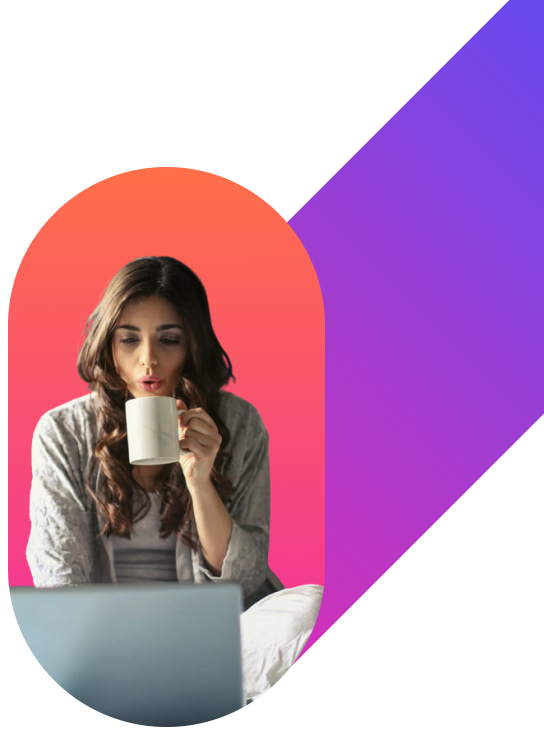
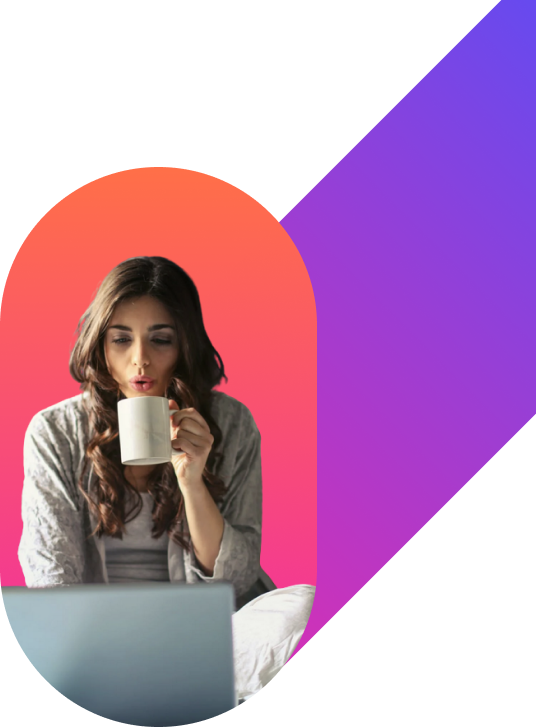
responsivity done

diff --git a/src/sections/Courses/index.jsx b/src/sections/Courses/index.jsx
@@ -1,6 +1,10 @@
-import { FaRunning } from "react-icons/fa";
 import { Course } from "../../components/Course";
 import { Container } from "./styles";
+import Animation from '../../assets/icon-animation.svg'
+import Design from '../../assets/icon-design.svg'
+import Photography from '../../assets/icon-photography.svg'
+import CryptoI from '../../assets/icon-crypto.svg'
+import Business from '../../assets/icon-business.svg'
 
 export const Courses = () => {
   return (
@@ -10,35 +14,31 @@ export const Courses = () => {
           <p>Check out our most popular courses!</p>
         </div>
         <Course
-          icon={<FaRunning />}
+          icon={Animation}
           title="Animation"
-          description="Learn the latest animation techniques to create stunning motion design
-        and captivate your audience."
+          description="Learn the latest animation techniques to create stunning motion design and captivate your audience."
         />
         <Course
-          icon={<FaRunning />}
-          title="Animation"
-          description="Learn the latest animation techniques to create stunning motion design
-        and captivate your audience."
+          icon={Design}
+          title="Design"
+          description="Create beautiful, usable interfaces to help shape the future of how the web looks."
         />
         <Course
-          icon={<FaRunning />}
-          title="Animation"
-          description="Learn the latest animation techniques to create stunning motion design
-        and captivate your audience."
+          icon={Photography}
+          title="Photography"
+          description="Explore critical fundamentals like lighting, composition, and focus to capture exceptional photos."
         />
         <Course
-          icon={<FaRunning />}
-          title="Animation"
-          description="Learn the latest animation techniques to create stunning motion design
-        and captivate your audience."
+          icon={CryptoI}
+          title="Crypto"
+          description="All you need to know to get started investing in crypto. Go from beginner to advanced with this 54 hour course."
         />
         <Course
-          icon={<FaRunning />}
-          title="Animation"
-          description="Learn the latest animation techniques to create stunning motion design
-        and captivate your audience."
+          icon={Business}
+          title="Business"
+          description="A step-by-step playbook to help you start, scale, and sustain your business without outside investment."
         />
+
       </div>
     </Container>
   );

diff --git a/src/sections/Home/index.jsx b/src/sections/Home/index.jsx
@@ -2,8 +2,21 @@ import { theme } from "../../theme";
 import { Container, HeroText } from "./styles";
 import { Button } from "../../components/Button";
 import HeroImageDesktop from "../../assets/hero-image-desktop.png";
+import HeroImageTablet from "../../assets/hero-image-tablet.png";
+import HeroImageMobile from "../../assets/hero-image-mobile.png";
+import { useEffect, useState } from "react";
 
 export const Home = () => {
+  const [width, setWidth] = useState(window.innerWidth);
+
+  useEffect(() => {
+    const handleResize = () => setWidth(window.innerWidth);
+    window.addEventListener("resize", handleResize);
+    return () => {
+      window.removeEventListener("resize", handleResize);
+    };
+  }, []);
+
   return (
     <Container>
       <HeroText>
@@ -19,7 +32,9 @@ export const Home = () => {
         </Button>
       </HeroText>
 
-      <img src={HeroImageDesktop} />
+        {width > 1120 && <img src={HeroImageDesktop} />}
+        {width > 768 && width <= 1120 && <img src={HeroImageTablet} />}
+        {width <= 768 && <img src={HeroImageMobile} />}
     </Container>
   );
 };

diff --git a/src/theme/index.js b/src/theme/index.js
@@ -13,30 +13,30 @@ export const theme = {
     fonts: {
       heading: {
         xl: {
-          size: "56px",
-          line_height: "70px",
+          size: "3.5rem",
+          line_height: "4.75rem",
         },
         l: {
-          size: "40px",
-          line_height: "51px",
+          size: "2.5rem",
+          line_height: "3.1rem",
         },
         m: {
-          size: "32px",
-          line_height: "40px",
+          size: "2rem",
+          line_height: "2.5rem",
         },
         s: {
-          size: "24px",
-          line_height: "28px",
+          size: "1.5rem",
+          line_height: "1.75rem",
         },
       },
       body: {
         m: {
-          size: "18px",
-          line_height: "28px",
+          size: "1.1rem",
+          line_height: "1.75rem",
         },
         s: {
-          size: "16px",
-          line_height: "28px",
+          size: "1rem",
+          line_height: "75rem",
         },
       },
     },

diff --git a/src/components/Course/styles.js b/src/components/Course/styles.js
@@ -2,7 +2,6 @@ import styled from "styled-components";
 import { theme } from "../../theme";
 
 export const Container = styled.div`
-  width: 350px;
   height: 350px;
 
   padding: 4rem 2rem 2.5rem 2rem;
@@ -13,6 +12,10 @@ export const Container = styled.div`
   position: relative;
 
   box-shadow: 0px 25px 50px rgba(6, 22, 141, 0.0442381);
+
+  @media (max-width: 992px) {
+    height: initial;
+  }
 
   & > div {
     position: absolute;
@@ -49,6 +52,12 @@ export const Container = styled.div`
     cursor: pointer;
 
     color: ${theme.colors.primary};
+
+    transition: 0.3s;
+
+    &:hover {
+      opacity: 0.5;
+    }
   }
 
   div {
@@ -61,11 +70,5 @@ export const Container = styled.div`
     border-radius: 99px;
 
     background-image: ${theme.colors.primary_gradient};
-
-    svg {
-      height: 25px;
-      width: 25px;
-      color: ${theme.colors.white};
-    }
   }
 `;

diff --git a/src/sections/Home/styles.js b/src/sections/Home/styles.js
@@ -5,8 +5,6 @@ export const Container = styled.section`
   max-width: ${theme.size.container.xl};
   margin: 0 auto;
 
-
-
   display: flex;
   align-items: center;
   justify-content: space-between;
@@ -18,6 +16,23 @@ export const Container = styled.section`
     right: 0;
     top: 0;
     z-index: -1;
+  }
+
+  
+  @media(max-width: 1120px){
+    padding: 0 2rem;
+    margin-top: 90px;
+
+  }
+
+  
+  @media(max-width: 768px){
+    flex-direction: column;
+
+    img{
+      margin-top: 5rem;
+      position: relative;
+    }
   }
 `;
 
@@ -40,5 +55,13 @@ export const HeroText = styled.div`
     line-height: ${theme.size.fonts.body.m.line_height};
 
     margin-bottom: 2.5rem;
+  }
+
+  @media(max-width: 1120px){
+    width: 60%;
+  }
+
+  @media(max-width: 768px){
+    width: 100%;
   }
 `;

diff --git a/src/sections/Courses/styles.js b/src/sections/Courses/styles.js
@@ -4,9 +4,21 @@ import { theme } from "../../theme";
 export const Container = styled.section`
   background-image: linear-gradient(360deg, #f0f1ff 0%, #ffffff 85%);
 
+  padding: 0 2rem;
 
   margin-top: 230px;
   padding-bottom: 140px;
+
+  
+  @media(max-width: 992px){
+      margin-top: 110px;
+    }
+
+    
+    @media(max-width: 768px){
+      margin-top: 70px;
+      padding-bottom: 80px;
+    }
 
   & > div {
     max-width: ${theme.size.container.xl};
@@ -17,6 +29,16 @@ export const Container = styled.section`
     gap: 4rem 2rem;
 
     margin: 0 auto;
+
+
+    @media(max-width: 992px){
+      grid-template-columns: 1fr 1fr;
+
+    }
+
+    @media(max-width: 768px){
+      grid-template-columns: 1fr;
+    }
   }
 
   .check-out {

diff --git a/src/components/Course/index.jsx b/src/components/Course/index.jsx
@@ -3,7 +3,7 @@ import { Container } from "./styles";
 export const Course = ({ title, description, icon }) => {
   return (
     <Container>
-      <div>{icon}</div>
+      <div><img src={icon} alt="" /></div>
       <h2>{title}</h2>
       <p>{description}</p>
       <a href="#">Get Started</a>

diff --git a/src/components/Button/styles.js b/src/components/Button/styles.js
@@ -17,4 +17,10 @@ export const Container = styled.button`
       : `background-color: ${props.backgroundColor};`}
 
   color: ${theme.colors.white};
+
+    transition: 0.3s;
+
+  &:hover{
+    opacity: 0.5;
+  }
 `;

diff --git a/src/components/Header/styles.js b/src/components/Header/styles.js
@@ -4,6 +4,8 @@ import { theme } from "../../theme";
 export const Container = styled.header` 
     margin-top: 2.3rem;
 
+    padding: 0 2rem;
+
     nav{
 
         margin: 0 auto;

diff --git a/src/components/Footer/styles.js b/src/components/Footer/styles.js
@@ -4,6 +4,7 @@ import { theme } from "../../theme";
 export const Container = styled.footer`
   background-color: ${theme.colors.secondary};
 
+  padding: 0 2rem;
   
 
   & > div{
